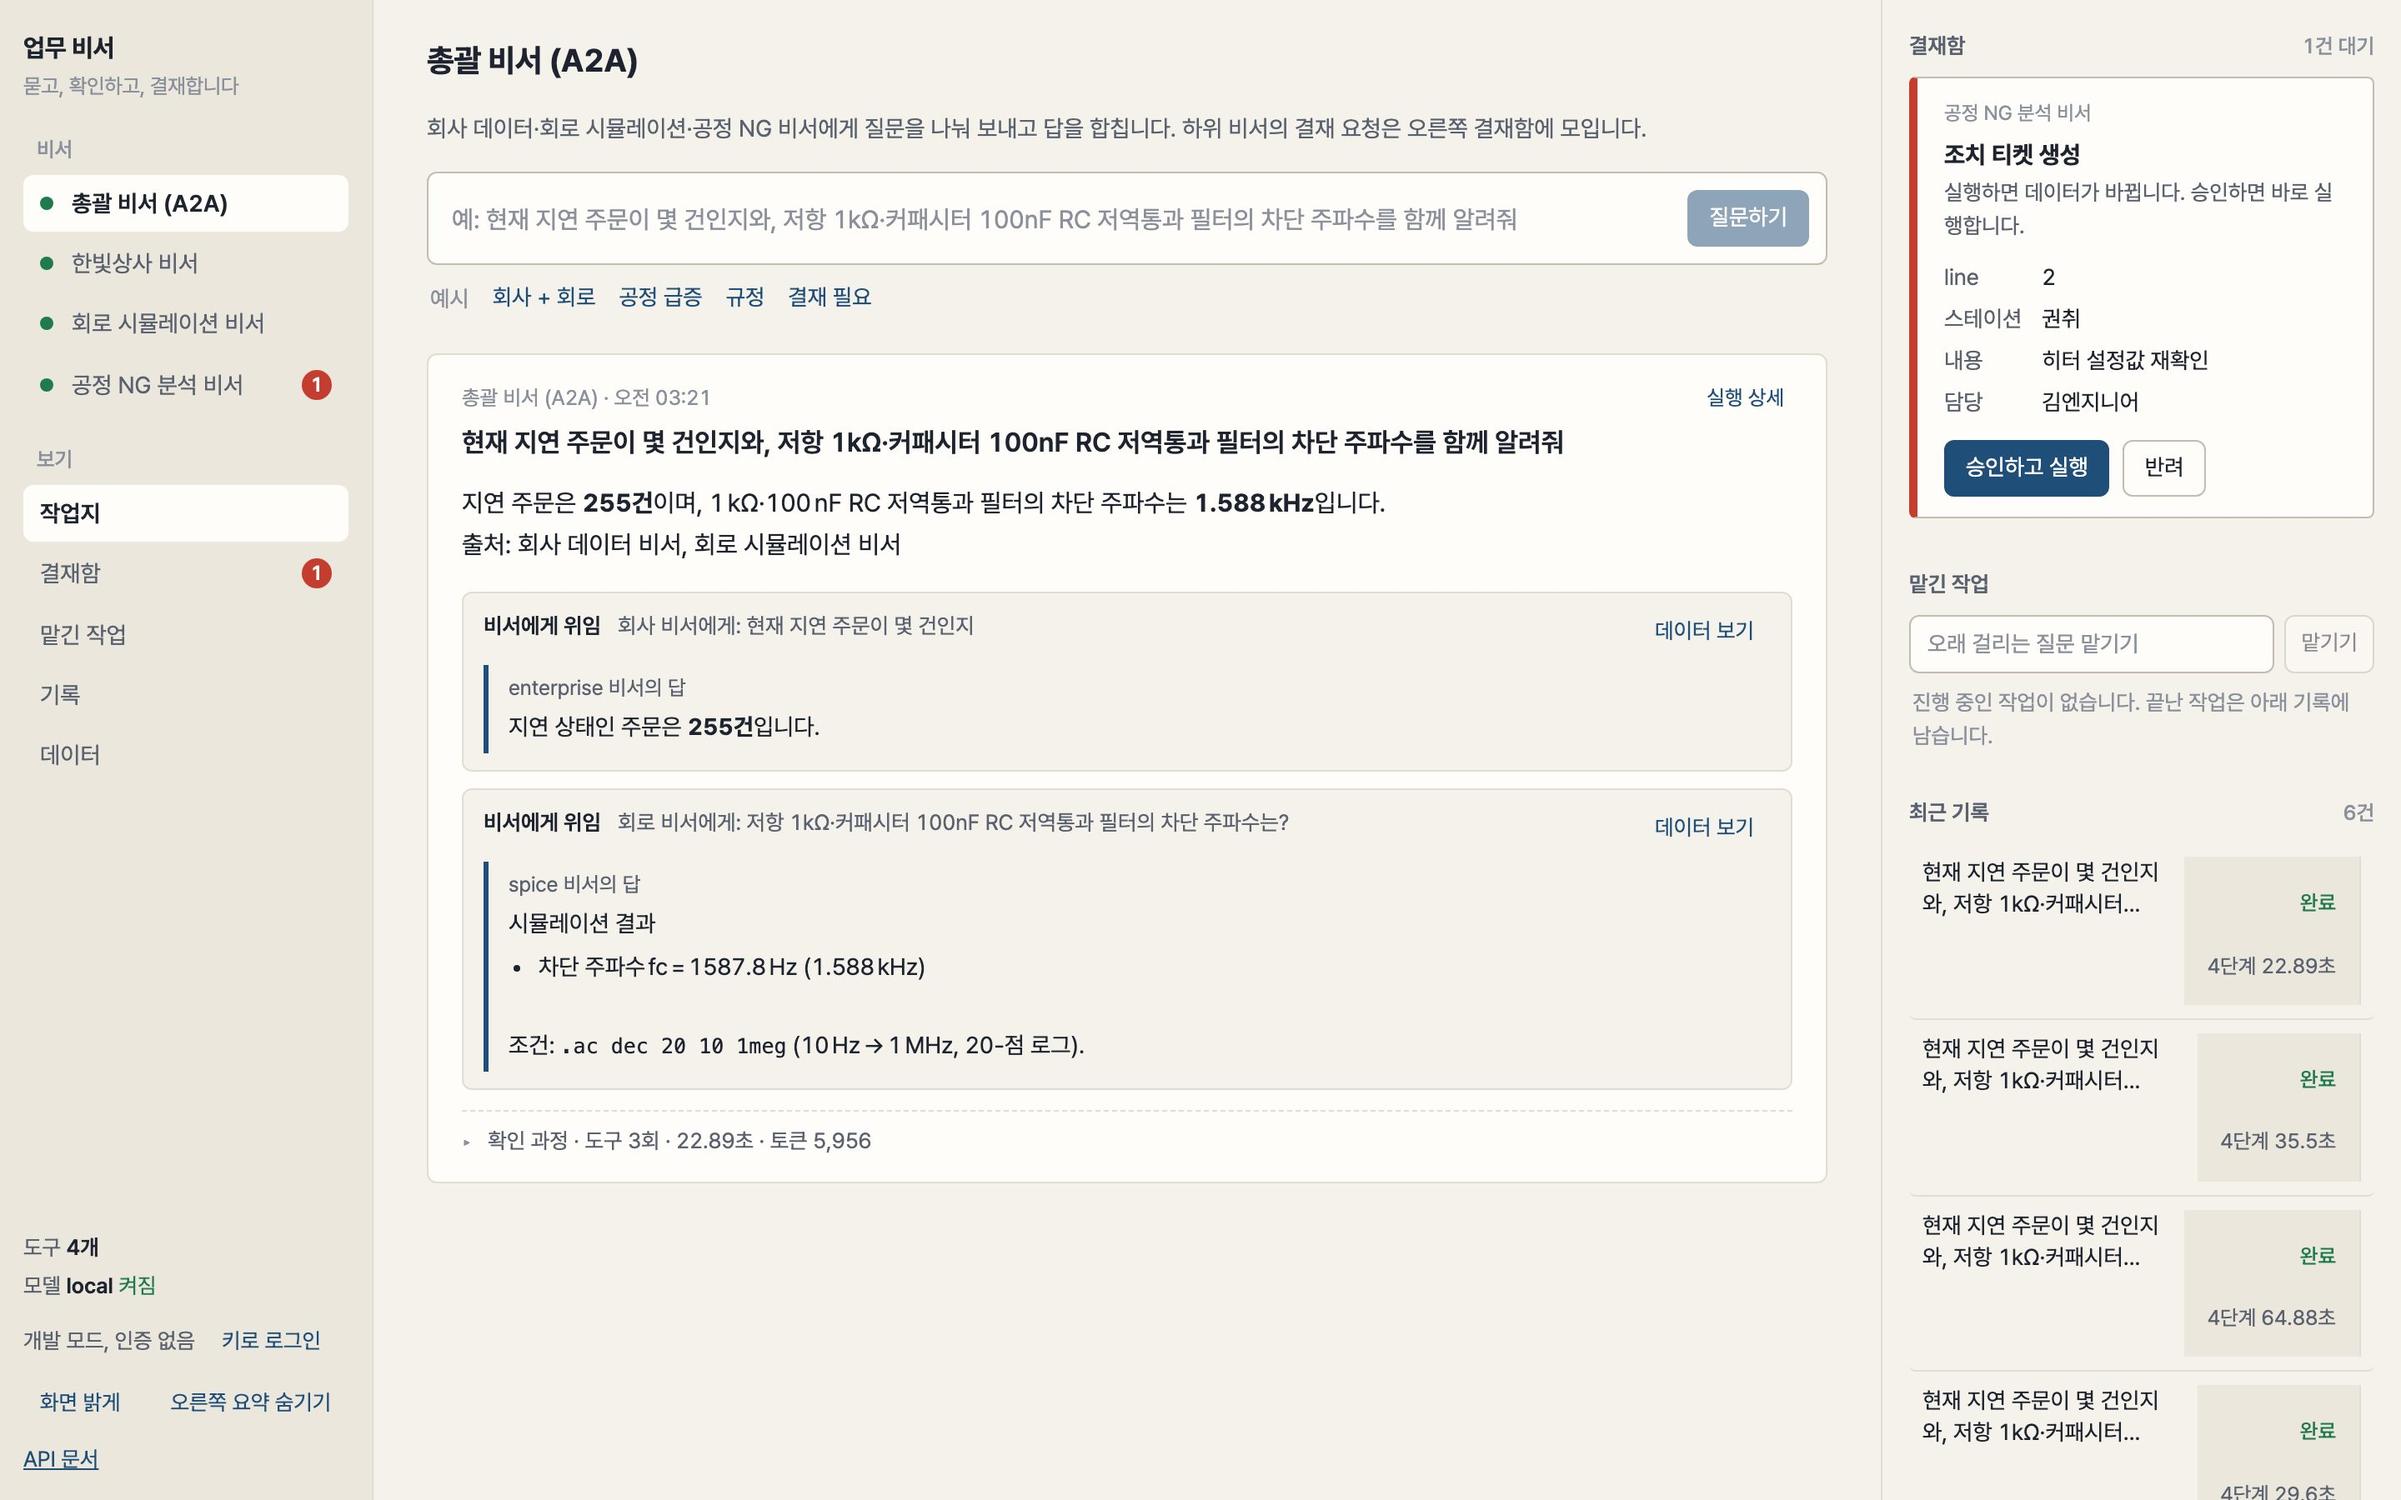
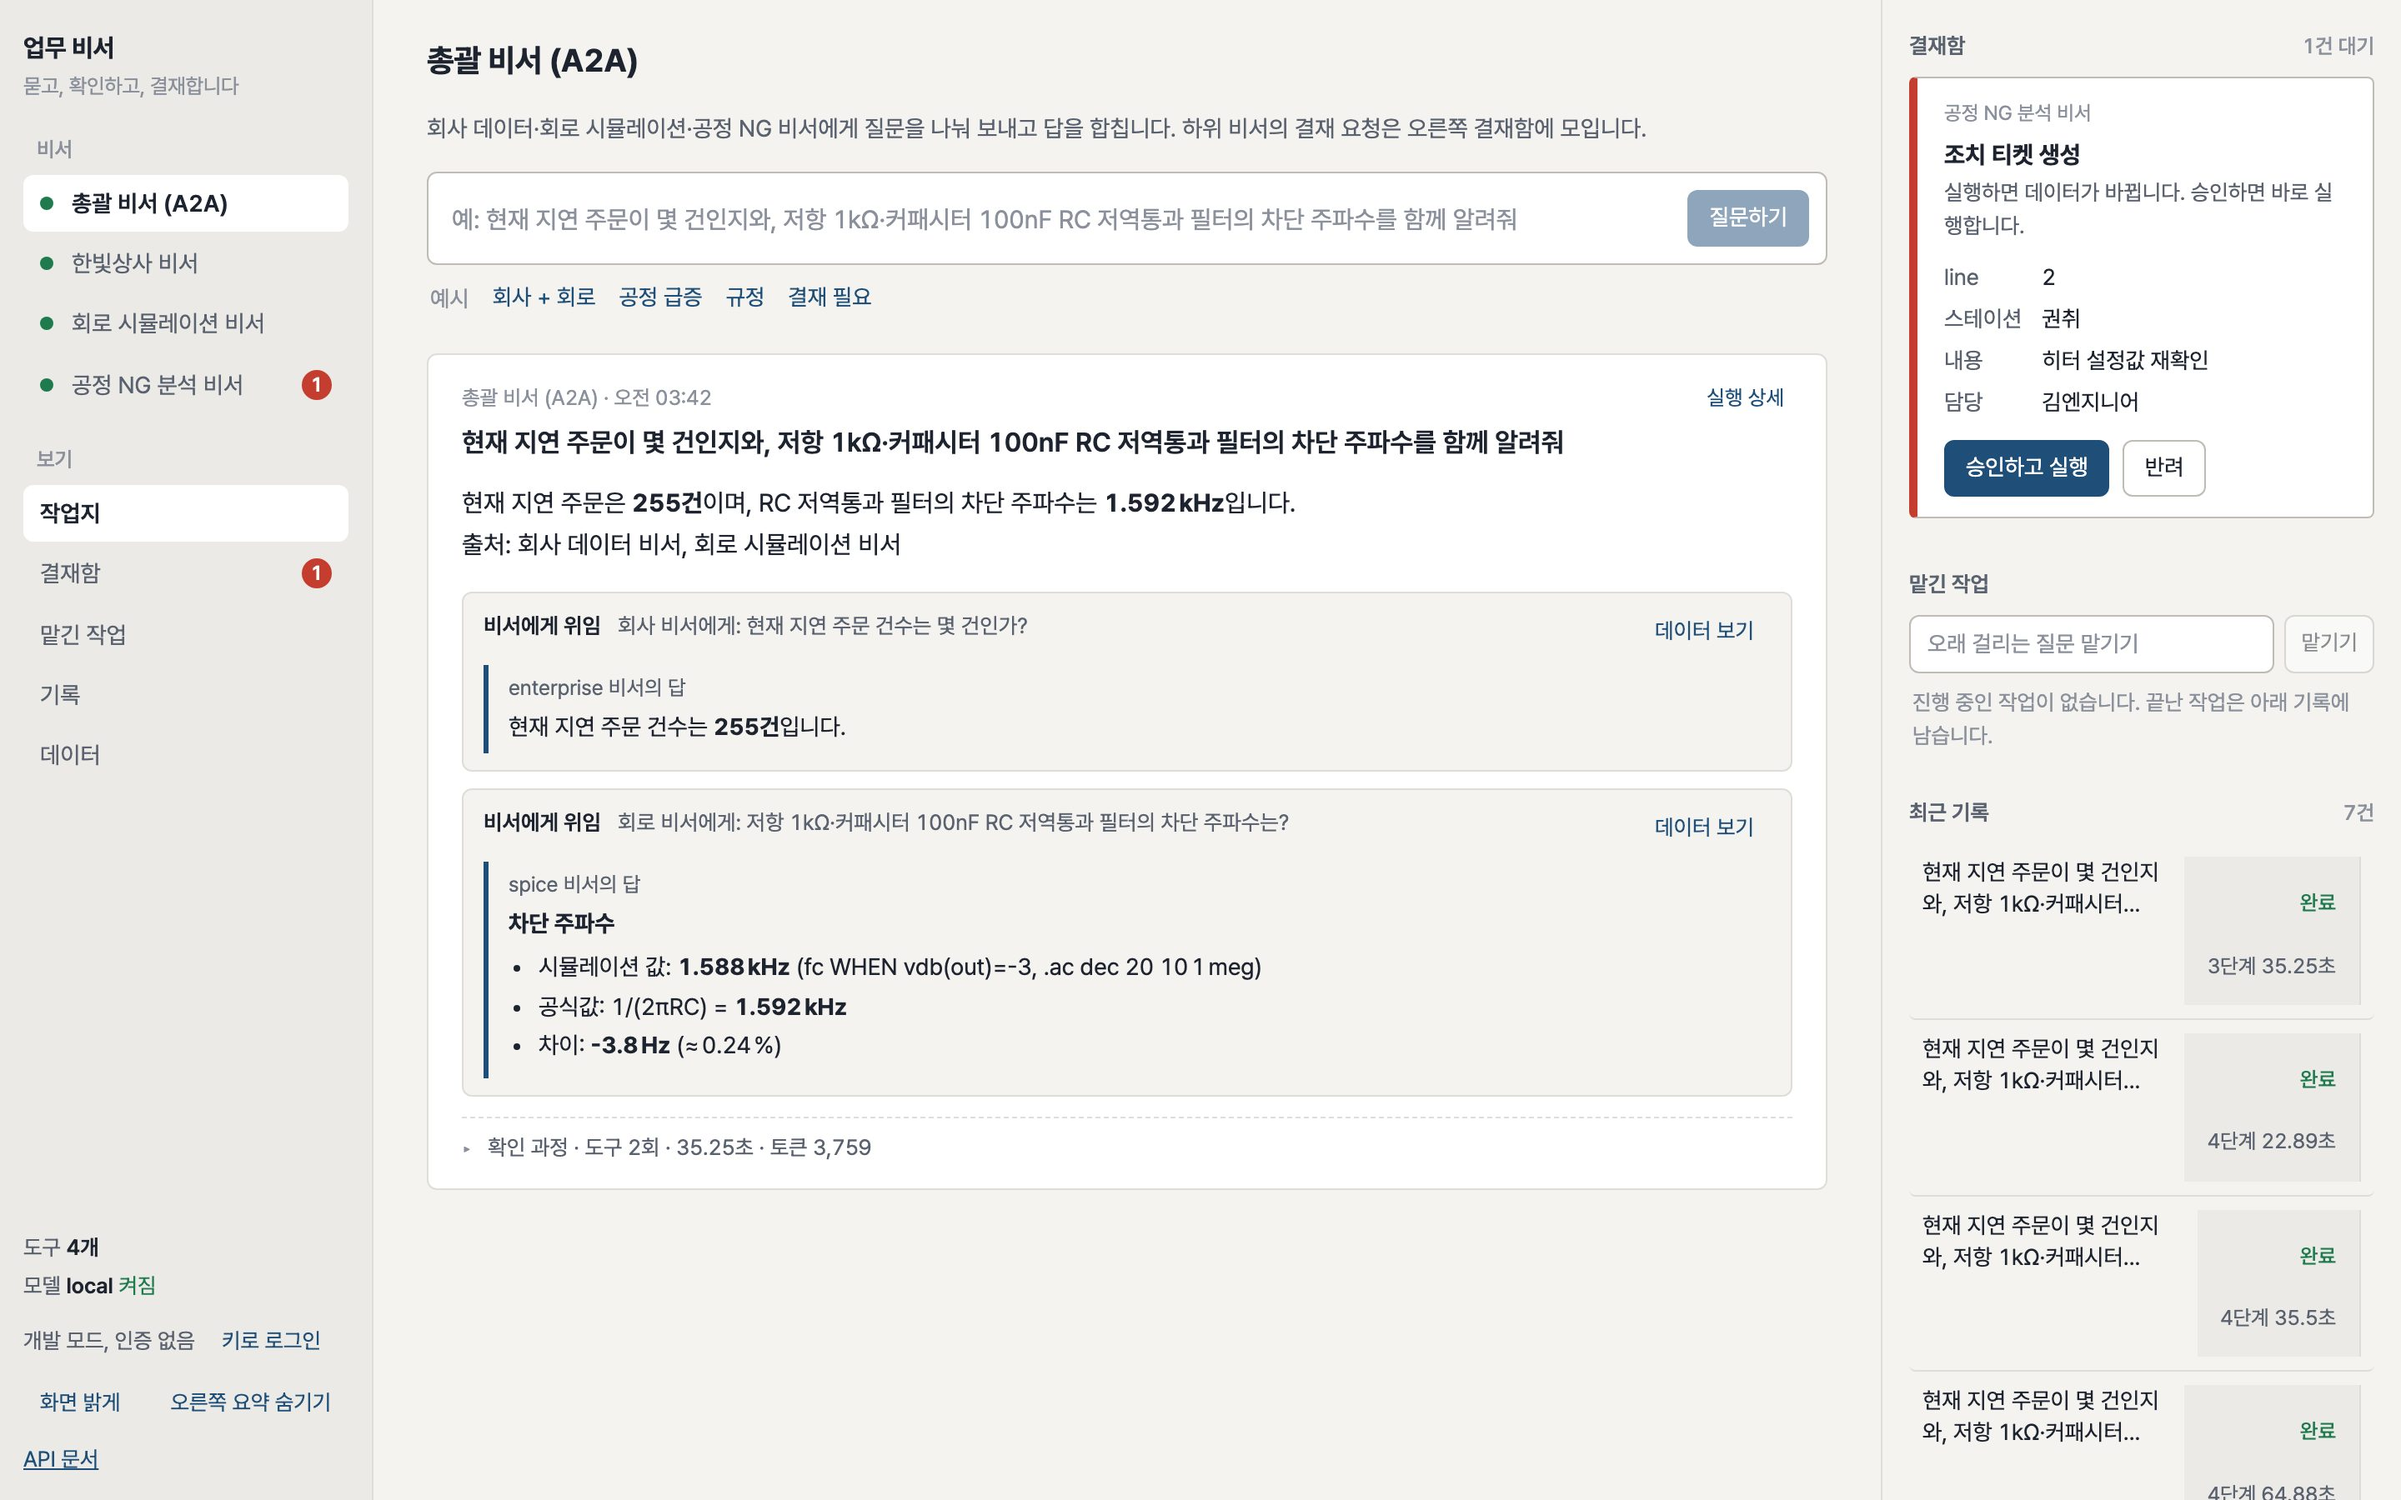
화면 톤 조정: 노란기를 뺀 중립 회색 종이(#f4f3f0), README 그림 11장 재캡처

diff --git a/ui/src/styles.css b/ui/src/styles.css
@@ -1,6 +1,6 @@
 /* 업무 데스크. 따뜻한 종이 위에 먹으로 쓴 글, 포인트는 남색 하나, 유일한 장식은 결재 도장이다. 글꼴은 Pretendard 하나. */
 :root{
-  --paper:#f5f2ec;--sheet:#fffdf9;--side:#ece7dd;--rule:#e2dcd1;--rule-strong:#c4bcae;
+  --paper:#f4f3f0;--sheet:#ffffff;--side:#ebeae6;--rule:#dfddd8;--rule-strong:#bfbcb5;
   --ink:#1d2430;--ink-2:#5a6270;--ink-3:#8b919c;
   --act:#1f4e79;--act-hover:#173d60;--act-tint:#e8eef5;
   --stamp:#c43d2f;--stamp-tint:#fbeae8;--ok:#1f7a4d;--warn:#8a6100;--warn-tint:#fcf3da;
@@ -10,15 +10,15 @@
   --side-w:224px;--rail-w:312px;
 }
 :root[data-theme=dark]{
-  --paper:#1b1917;--sheet:#23201d;--side:#151311;--rule:#36322d;--rule-strong:#4d473f;
-  --ink:#ece7df;--ink-2:#aaa39a;--ink-3:#7a746c;
+  --paper:#1a1a19;--sheet:#232322;--side:#141413;--rule:#333331;--rule-strong:#4a4946;
+  --ink:#eae9e6;--ink-2:#a7a59f;--ink-3:#79776f;
   --act:#8fb4dc;--act-hover:#a9c6e6;--act-tint:#1e2a38;
   --stamp:#ef6b60;--stamp-tint:#3a2320;--ok:#5fc48f;--warn:#e2b84a;--warn-tint:#332b14;
   --s-llm:#3987e5;--s-tool:#d9742b;--s-approval:#199e70;--s-run:#6f6e68;
 }
 @media (prefers-color-scheme:dark){:root:not([data-theme=light]){
-  --paper:#1b1917;--sheet:#23201d;--side:#151311;--rule:#36322d;--rule-strong:#4d473f;
-  --ink:#ece7df;--ink-2:#aaa39a;--ink-3:#7a746c;
+  --paper:#1a1a19;--sheet:#232322;--side:#141413;--rule:#333331;--rule-strong:#4a4946;
+  --ink:#eae9e6;--ink-2:#a7a59f;--ink-3:#79776f;
   --act:#8fb4dc;--act-hover:#a9c6e6;--act-tint:#1e2a38;
   --stamp:#ef6b60;--stamp-tint:#3a2320;--ok:#5fc48f;--warn:#e2b84a;--warn-tint:#332b14;
   --s-llm:#3987e5;--s-tool:#d9742b;--s-approval:#199e70;--s-run:#6f6e68;
@@ -112,8 +112,8 @@ ul.md{margin:4px 0;padding-left:18px;white-space:normal}ul.md li{margin:2px 0}
 @media (prefers-reduced-motion:no-preference){.caret{animation:blink 1s steps(2,start) infinite}@keyframes blink{to{visibility:hidden}}}
 .evidence{margin-top:14px;display:grid;grid-template-columns:minmax(0,1fr);gap:10px}
 .card{border:1px solid var(--rule);border-radius:var(--r);padding:10px 12px;background:var(--paper);min-width:0;overflow:hidden}
-:root[data-theme=dark] .card{background:#1d1a17}
-@media (prefers-color-scheme:dark){:root:not([data-theme=light]) .card{background:#1d1a17}}
+:root[data-theme=dark] .card{background:#1c1c1b}
+@media (prefers-color-scheme:dark){:root:not([data-theme=light]) .card{background:#1c1c1b}}
 .card .ct{display:flex;justify-content:space-between;gap:10px;font-size:13px;color:var(--ink-2);margin-bottom:6px}
 .card .ct b{color:var(--ink);font-weight:600;flex-shrink:0}
 .card .ct span{min-width:0;overflow:hidden;text-overflow:ellipsis;white-space:nowrap}

diff --git a/docs/decisions/018-ui-work-desk.md b/docs/decisions/018-ui-work-desk.md
@@ -21,7 +21,7 @@
 - 캡처는 `scripts/capture_ui.py` 가 헤드리스 Chrome 으로 실제 실행을 돌려 찍는다. README 의 화면은 전부 이 스크립트 산출물이다.
 
 ## 추가 (2026-10-29): 색을 따뜻한 종이 + 남색으로
-사용자가 회색 종이·청록 조합을 보고 "배경과 포인트 색을 바꾸자" 고 했다. 세 가지(따뜻한 종이 + 남색, 차가운 흰색 + 코발트, 회녹색 + 진초록)를 보여 주고 첫 번째를 골랐다. 배경 `#f5f2ec`, 사이드바 `#ece7dd`, 종이 `#fffdf9`, 포인트 `#1f4e79`. 어두운 화면도 같은 온도로(`#1b1917` 위에 `#8fb4dc`). 그래프 1계열과 격자 농도도 남색으로 따라간다. 도장 빨강은 그대로다. 토큰만 바꿔서 컴포넌트 코드는 손대지 않았다.
+사용자가 회색 종이·청록 조합을 보고 "배경과 포인트 색을 바꾸자" 고 했다. 세 가지(따뜻한 종이 + 남색, 차가운 흰색 + 코발트, 회녹색 + 진초록)를 보여 주고 첫 번째를 골랐다. 배경 `#f5f2ec`, 사이드바 `#ece7dd`, 종이 `#fffdf9`, 포인트 `#1f4e79`. 어두운 화면도 같은 온도로(`#1b1917` 위에 `#8fb4dc`). 그래프 1계열과 격자 농도도 남색으로 따라간다. 도장 빨강은 그대로다. 토큰만 바꿔서 컴포넌트 코드는 손대지 않았다. 바로 뒤에 "살짝 누리끼리하다" 는 말이 나와 노란기를 뺀 중립 회색(`#f4f3f0`, 사이드바 `#ebeae6`, 종이 `#ffffff`)으로 한 번 더 조정했다. 포인트 남색은 그대로.
 
 ## 대안과 기각 이유
 - **팩별 전용 화면.** 결과를 가장 잘 보여 줄 수는 있지만 팩을 추가할 때마다 화면 코드를 쓰게 되어 "팩 폴더 하나로 도메인 교체" 가 깨진다. 모양 규칙 + 팩이 주는 라벨로 충분했다.
